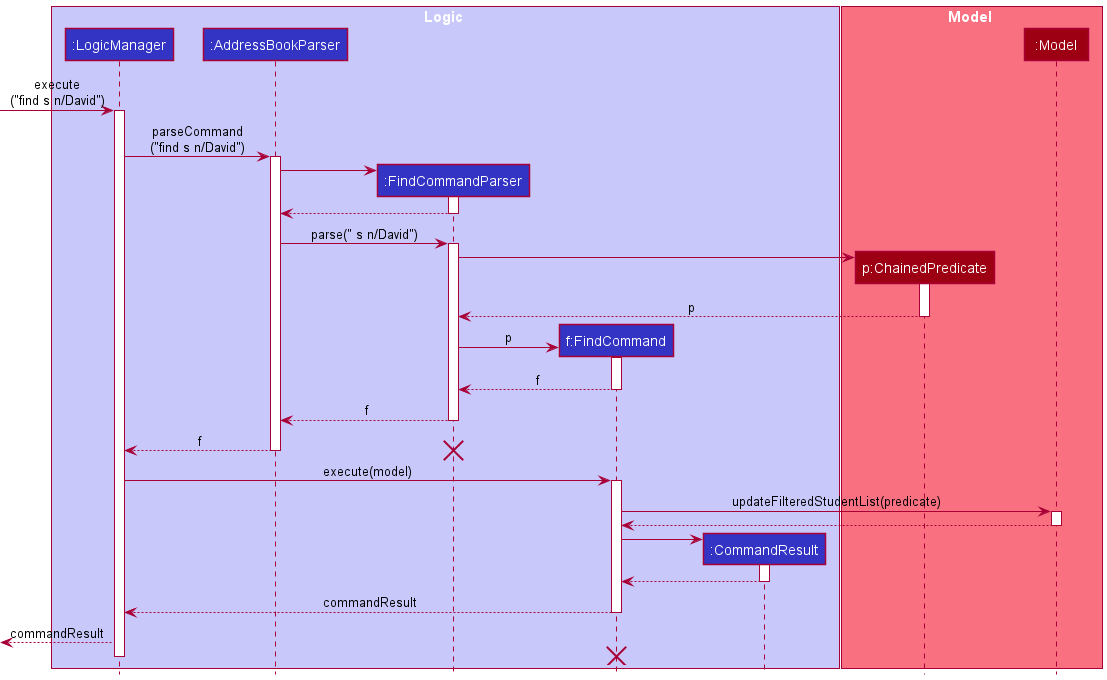
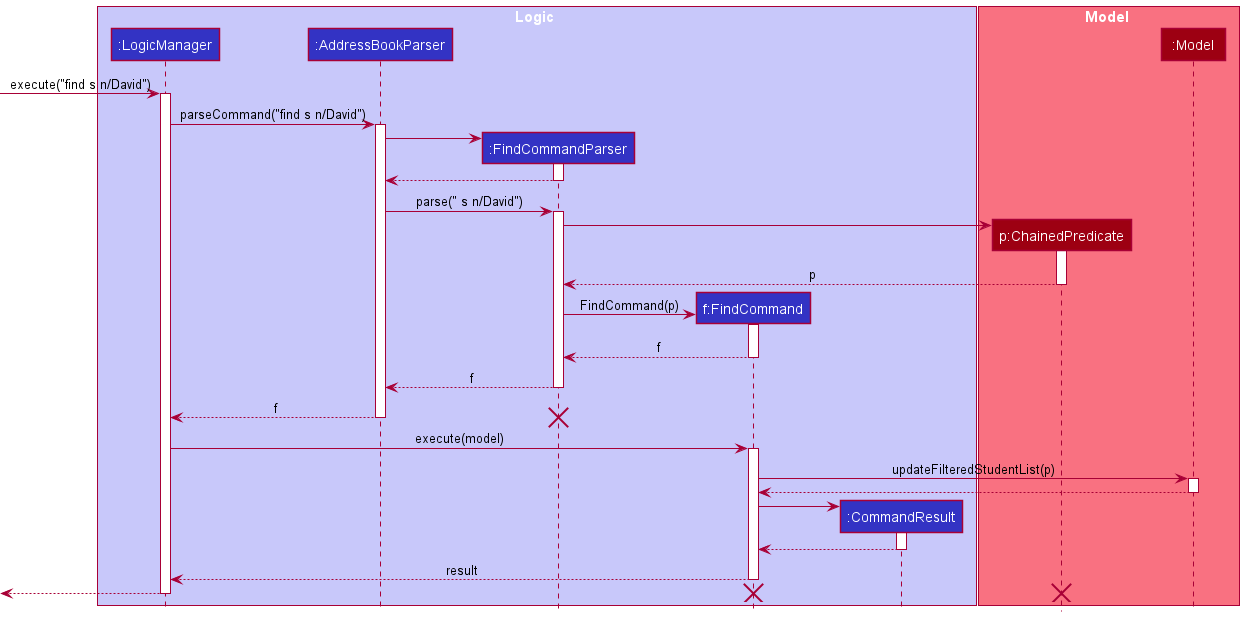
Synchronize syntax

Changed region(s): [[0.0, 0.0, 1.0, 0.9854], [0.2764, 0.8622, 0.3686, 0.893]]

diff --git a/docs/DeveloperGuide.md b/docs/DeveloperGuide.md
@@ -338,31 +338,29 @@ Given below is an activity diagram to show how the `list` command works:
 
 #### What it is
 
-Searches and displays all tutors or students that matches the parameters specified. The `find` command must have at least one parameter specified to be valid (i.e `find s blah` will **not** work).
+Searches and displays all tutors/students that matches the parameters specified. The `find` command must have **at least one parameter** specified to be valid (i.e. `find s NOT_A_PARAMETER` will **not** work).
 
 #### Implementation details
 
-A noteworthy change in implementation of our `FindCommand` from the standard AB3 `FindCommand` is in `FindCommandParser`. We expanded on the `FindCommand` functionality such that it can find for students or tutors  multiple attributes. Because of this, we opted to create a new `ChainedPredicate` class that encapsulates the idea of chaining multiple predicates together. Each attribute specified by the user creates its own predicate which is then chained together using the `Predicate#and` method and the resulting predicate is then stored in the `ChainedPredicate` class.
+A noteworthy change in implementation of our `FindCommand` from the standard AB3 `FindCommand` is in `FindCommandParser`. We expanded on the `FindCommand` functionality such that it can find for students/tutors  multiple attributes. Because of this, we opted to create a new `ChainedPredicate` class that encapsulates the idea of chaining multiple predicates together. Each attribute specified by the user creates its own predicate which is then chained together using the `Predicate#and` method and the resulting predicate is then stored in the `ChainedPredicate` class.
 
 ##### Sequence of action
 {:.no_toc}
 
 Given below is an example usage scenario and how the `find` command implementation behaves at each step:
 
-1. The user input (for e.g `find s n/David`) is handled by the `CommandBox` class in the Ui component, before being passed to `LogicManager` to be executed.
+1. The user input `find s n/David` is passed to `LogicManager` to be executed.
 2. `LogicManager` calls on `AddressBookParser#parseCommand` method which creates a new `FindCommandParser`.
 3. The `FindCommandParser` then calls its own `parse()` method which will return a new `FindCommand` if the input is valid.
 4. `LogicManager` will execute the `FindCommand` through `FindCommand#execute`.
 5. `FindCommand` will then search and update the student list in the `Model` class using the `Model#updateFilteredStudentList` method.
-6. Lastly, a new `CommandResult` with the success message is returned to the `LogicManager` and the `Ui` will be updated with the filtered.
+6. Lastly, a new `CommandResult` with the success message is returned to the `LogicManager`.
 
-Given below is a sequence diagram to show how the `find` implementation works for a **valid** `find` student input:
+Given below is a sequence diagram to show how a **valid** `find` implementation works for a `find` student input:
 
 ![FindCommandSequenceDiagram](images/FindCommandSequenceDiagram.png)
 
-> **Note:** The lifeline for `FindCommandParser` and `FindCommand` should end at the destroy marker (X) but due to a limitation of PlantUML, the lifeline reaches the end of diagram.
-
-Given below is an activity diagram to show how the `find` implementation works for a **valid** `find` student input:
+Given below is an activity diagram to show how a `find` implementation works for a `find` student input:
 
 ![FindCommandActivityDiagram](images/FindCommandActivityDiagram.png)
 
@@ -371,13 +369,13 @@ Given below is an activity diagram to show how the `find` implementation works f
 ##### Aspect: How `find` is executed
 {:.no_toc}
 
-- **Alternative 1 (current choice)**: user can `find` using multiple prefixes at once.
-  - Pros: It allows the user to find a specific type of student or tutor more easily.
- <br>(for e.g they can find all tutors who are women and teaches Primary Math)
-  - Cons: `FindCommandParser` would be more complex since it has to parse for multiple tags and chain predicates together depending on the user input. The higher complexity may lead to a higher chance of creating bugs.
-- **Alternative 2**: user can only `find` using one prefix at a time.
+- **Alternative 1 (current choice)**: User can `find` using multiple prefixes at once.
+  - Pros: It allows the user to find tutor/student more easily by their fields.
+ <br>(for e.g. they can find all tutors who are women and teaches Primary Math)
+  - Cons: It would be more complex since it has to parse for multiple tags and chain predicates together depending on the user input. The higher complexity may lead to a higher chance of creating bugs.
+- **Alternative 2**: User can only `find` using one prefix at a time.
   - Pros: Simpler to implement since there are lesser use cases to consider and hence, making the code less prone to bugs.
-  - Cons: Significant impact on the overall user experience since finding a `Person` with only one prefix may generate a large list if there are many `Tutor` or `Student` stored. user may not be able to find what he/she specifically wants.
+  - Cons: Significant impact on the overall user experience since finding a person with only one prefix may generate a large list if there are many tutors/students stored. user may not be able to find what he/she specifically wants.
 
 ### Match feature
 
